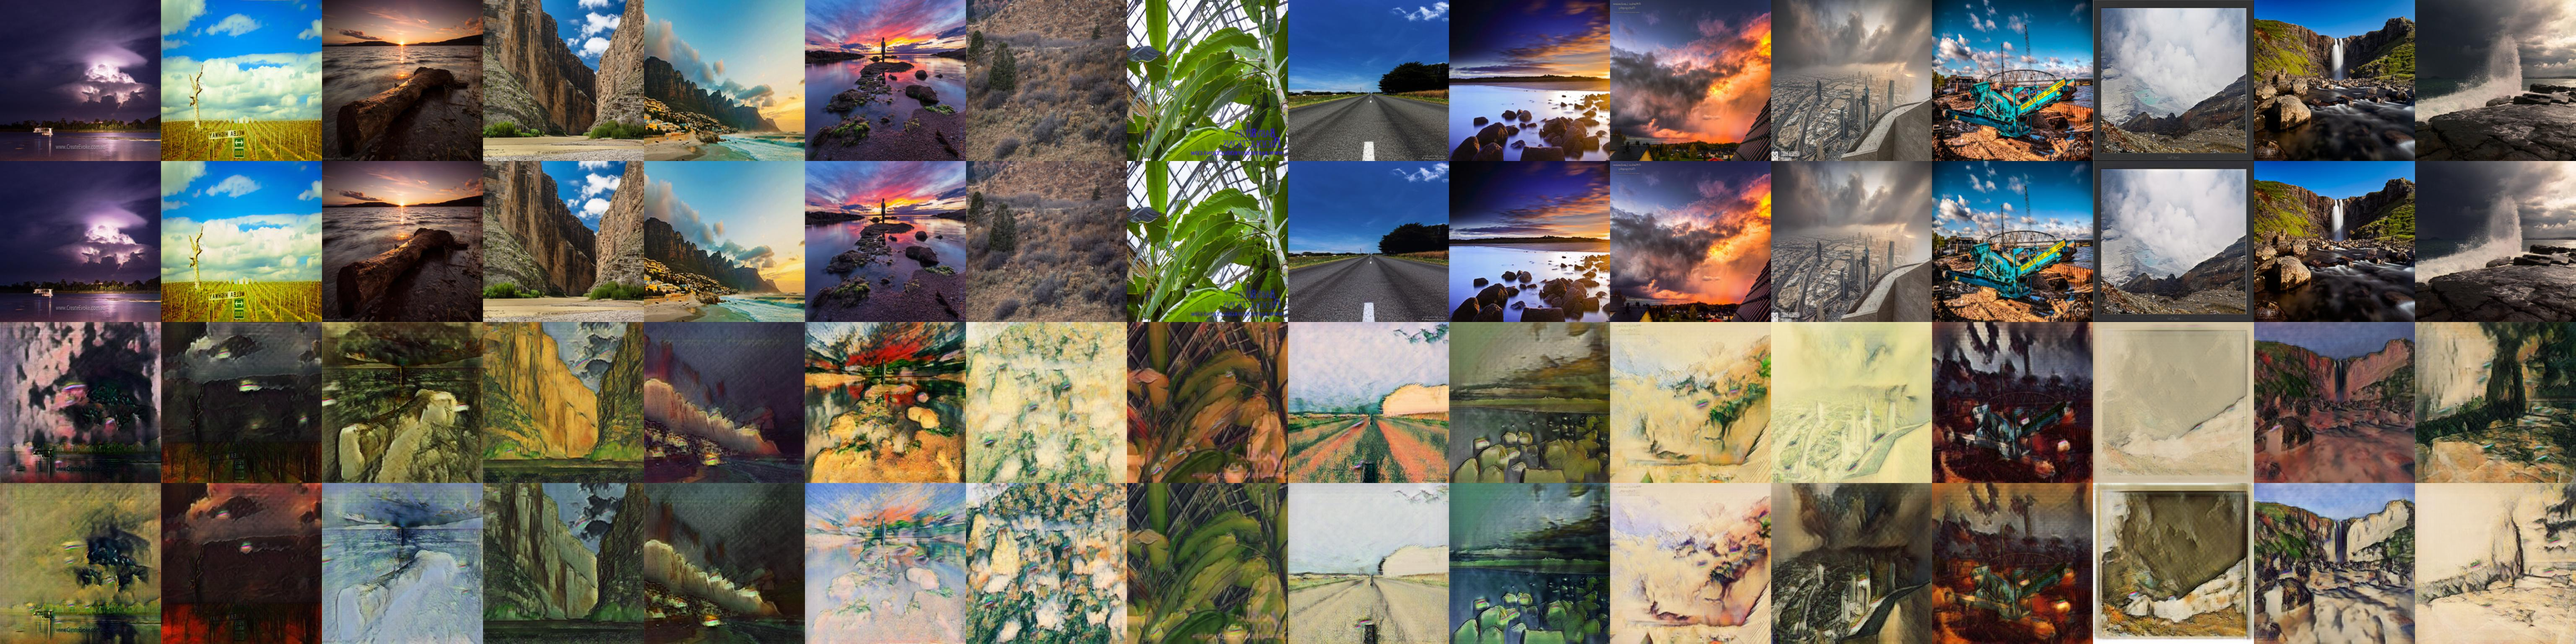
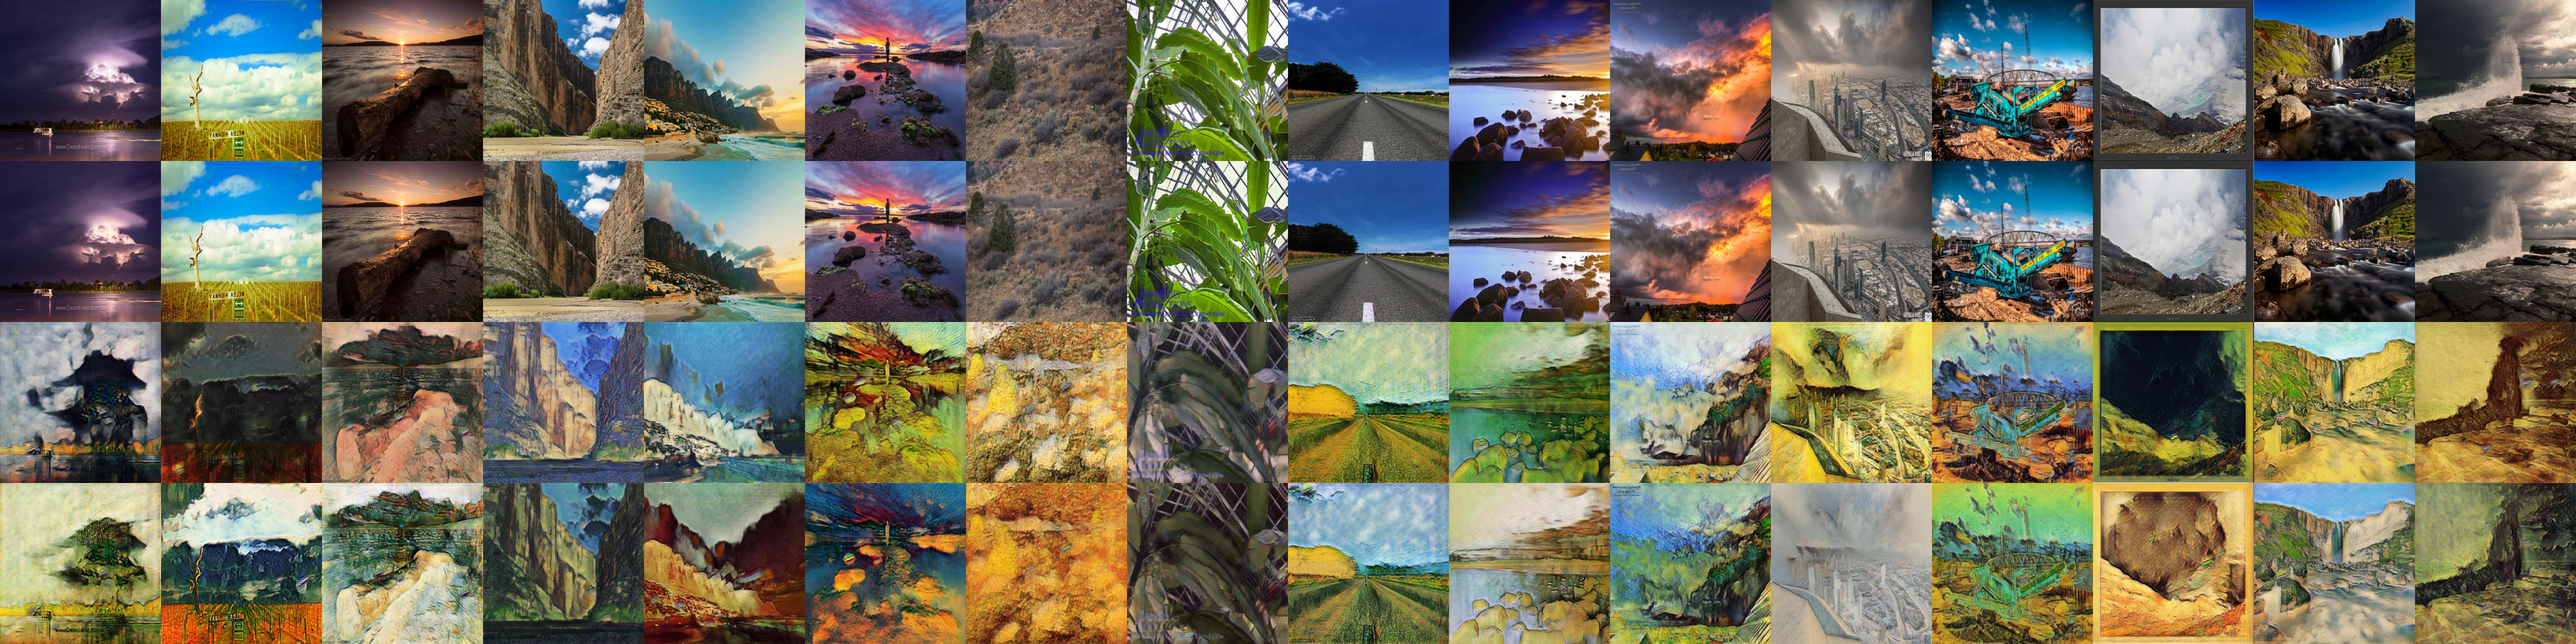
added new figures

diff --git a/model/new_munit_vgg.py b/model/new_munit_vgg.py
@@ -91,7 +91,7 @@ params = {
 'new_size': 384,                               # first resize the shortest image side to this size
 'crop_image_height': 384,                      # random crop image of this height
 'crop_image_width': 384,                       # random crop image of this width
-'data_root': '/home/diegushko/dataset/cezanne2photo'   # dataset folder location
+'data_root': '/home/diegushko/dataset/vangogh2photo'   # dataset folder location
 }
 
 IMG_EXTENSIONS = [
@@ -1063,7 +1063,7 @@ def get_model_list(dirname, key):
     last_model_name = gen_models[-1]
     return last_model_name
 
-train_resume = False
+train_resume = True
 
 iterations = trainer.resume(checkpoint_directory, params) if train_resume else 0
 
